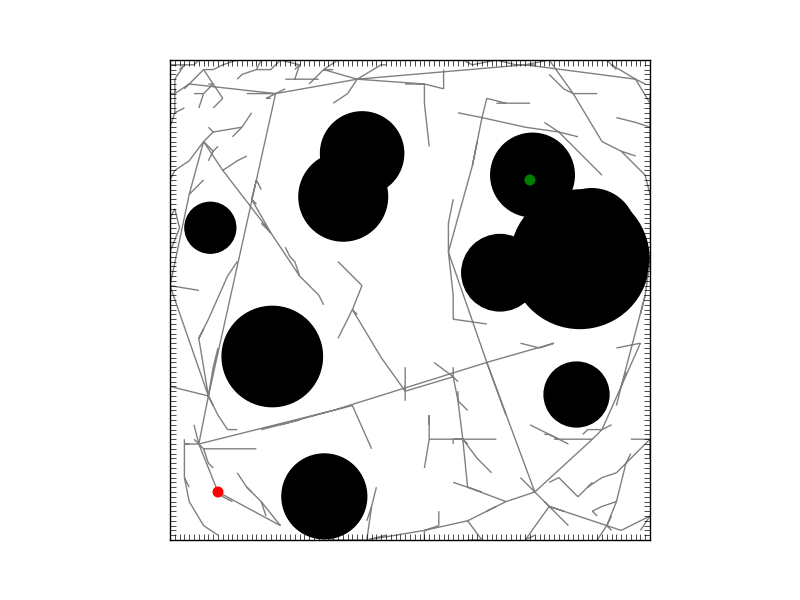
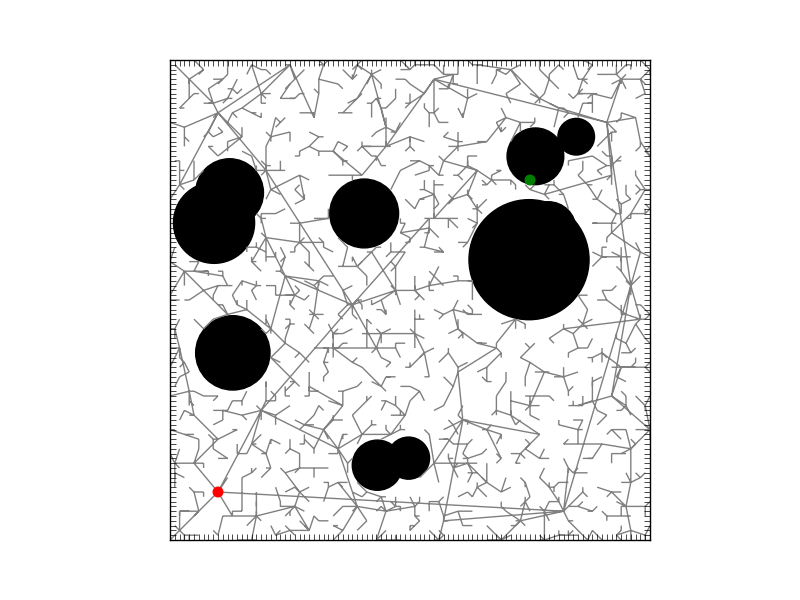
Fix issue with finding path to goal

Changed region(s): [[0.2188, 0.09, 0.8125, 0.9]]

diff --git a/rrt_circle.py b/rrt_circle.py
@@ -61,7 +61,7 @@ def open_path(Qrand, Qnear, circles):
         if disc >= 0 and a != 0:                        # Compute solutions if the numerator isn't imaginary
             s1 = (-b + sqrt(disc))/(2*a)
             s2 = (-b - sqrt(disc))/(2*a)
-            if not (0 <= s1 <= 1) or (0 <= s2 <= 1):    # If a solution is less than 0 or larger than 1, there is an intersection
+            if (0 <= s1 <= 1 or 0 <= s2 <= 1):          # If at least one solution is between 0 and 1, there is an intersection
                 path = 0
     return path
 
